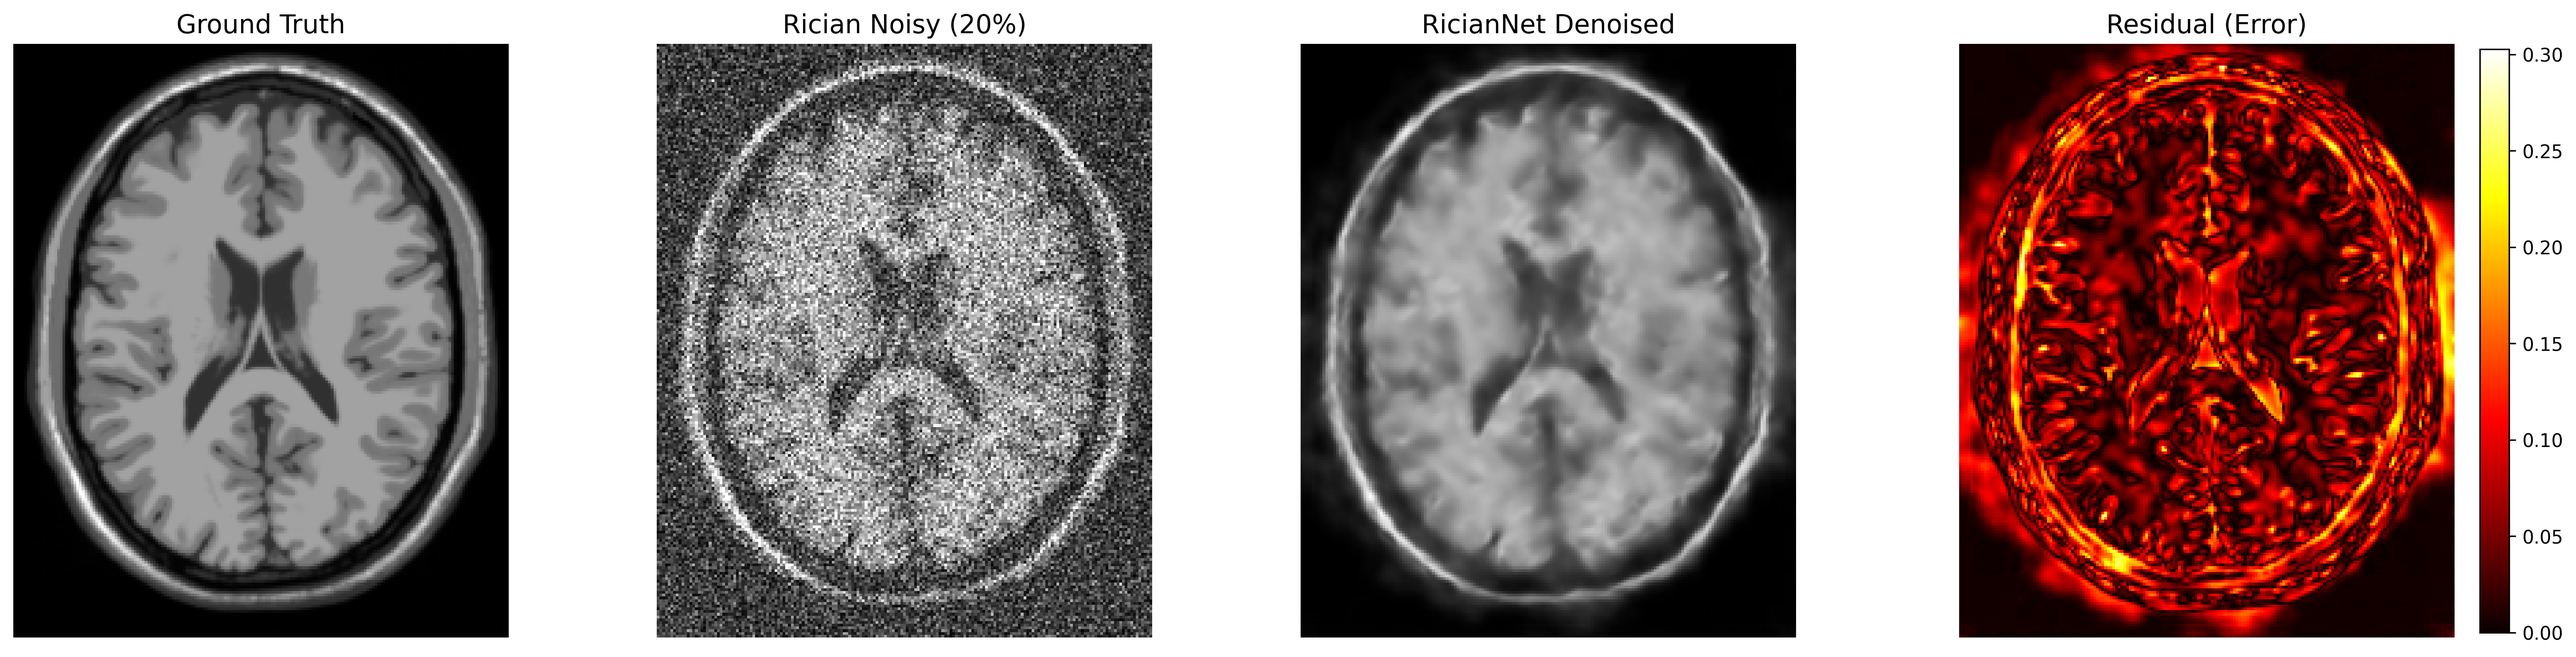
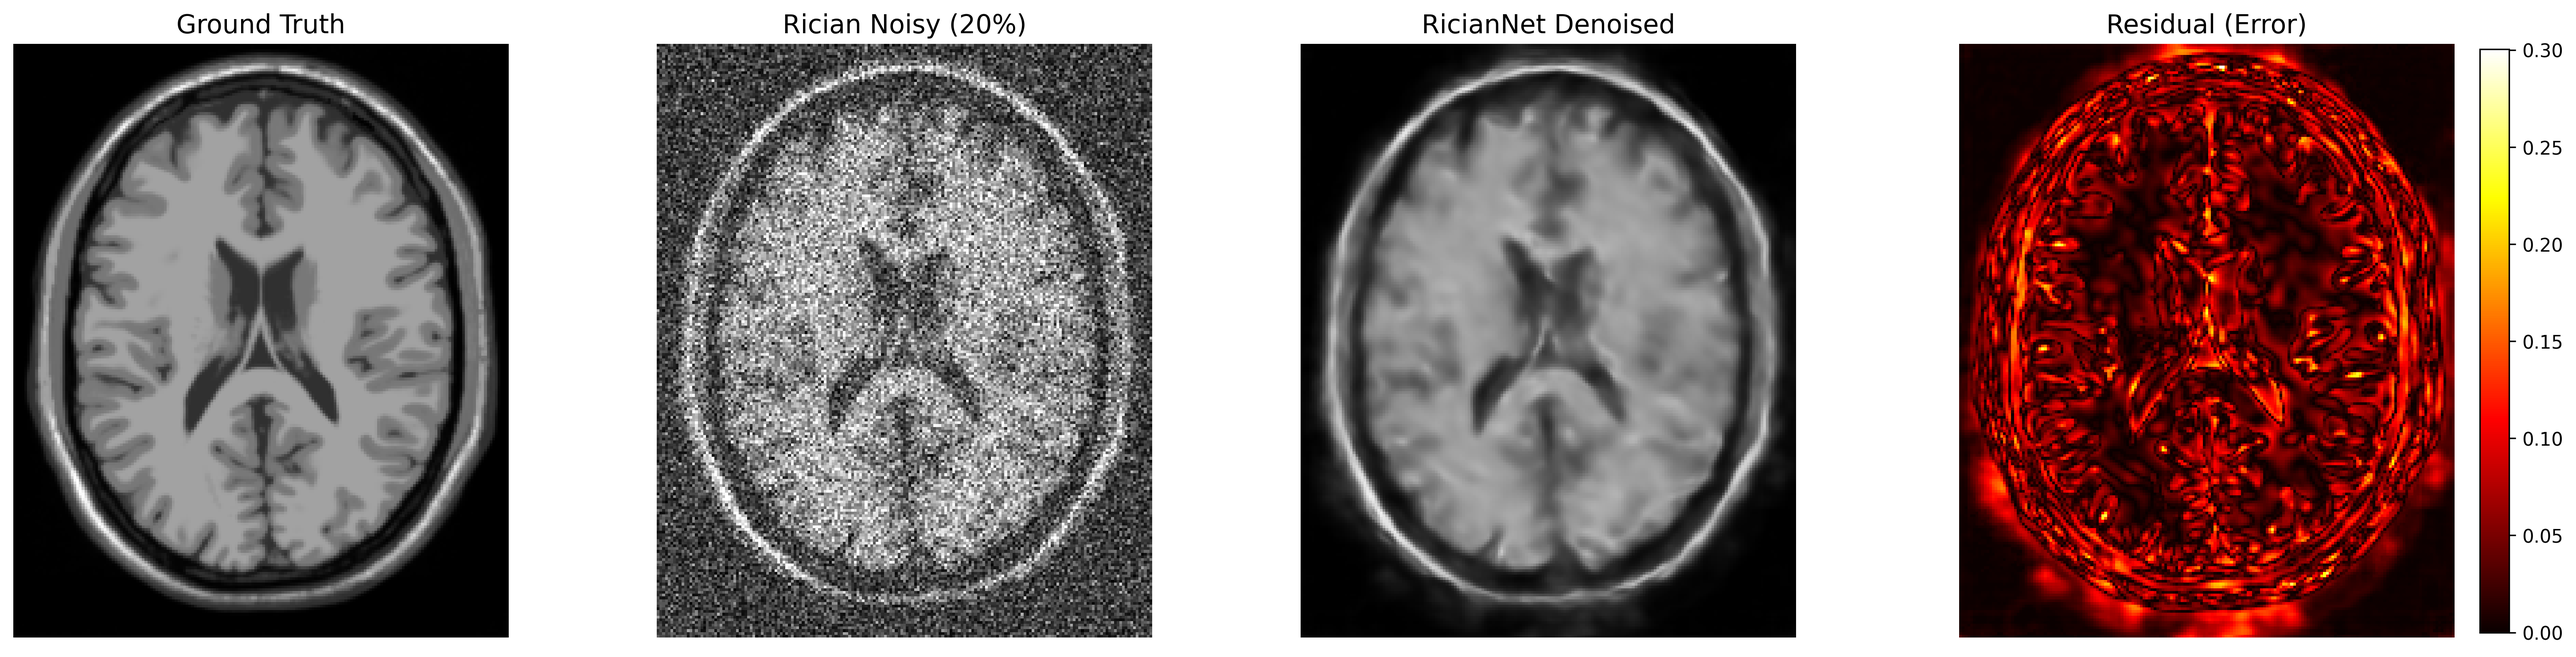
使用RF0数据集进行热启动微调训练

diff --git a/train.py b/train.py
@@ -3,7 +3,7 @@ import torch
 import torch.nn as nn
 import torch.optim as optim
 from tqdm import tqdm
-from torch.utils.tensorboard import SummaryWriter  # 引入 TensorBoard 写入器
+from torch.utils.tensorboard import SummaryWriter
 
 from models.RicianNet import RicianNet
 from utils.data_loader import get_dataloader, add_rician_noise_gpu
@@ -14,25 +14,33 @@ def main():
     
     os.makedirs("checkpoints", exist_ok=True)
     
-    # 初始化 TensorBoard 写入器，日志将保存在 runs/rician_experiment 目录下
-    writer = SummaryWriter(log_dir="runs/rician_experiment")
+    # --- 修改 1: 建议更改日志目录名，以便在 TensorBoard 中对比微调前后的曲线 ---
+    writer = SummaryWriter(log_dir="runs/rician_finetune_rf0")
     
+    # --- 修改 2: 确保你的 data/train/ 目录下现在放的是 RF0 的数据 ---
     train_loader = get_dataloader("data/train/", batch_size=64, shuffle=True)
     model = RicianNet().to(device)
+
+    # --- 修改 3: 加载 RF20 的权重进行“热启动” ---
+    weights_path = "checkpoints/rician_net_best.pth"
+    if os.path.exists(weights_path):
+        # 使用 weights_only=True 是 PyTorch 的安全最佳实践
+        model.load_state_dict(torch.load(weights_path, map_location=device, weights_only=True))
+        print(f"✅ 成功加载预训练权重: {weights_path}，开始针对 RF0 进行微调补救...")
+    else:
+        print("⚠ 未找到预训练权重，将从零开始训练（请检查路径）")
     
     criterion = nn.MSELoss()
-    # SGD 优化器的学习率和动量参数设置
-    # optimizer = optim.SGD(model.parameters(), lr=0.1, momentum=0.9, weight_decay=1e-4)
 
-    # Adam 优化器的学习率和权重衰减参数设置
-    optimizer = optim.Adam(model.parameters(), lr=0.001, weight_decay=1e-4)
-
-    # scheduler = optim.lr_scheduler.StepLR(optimizer, step_size=116840, gamma=0.1)
+    # --- 修改 4: 降低学习率 (Fine-tuning 常用 1e-5 或 5e-5) ---
+    # 较低的学习率能防止 RF0 的新分布把模型原本学到的去噪能力“冲跨”
+    optimizer = optim.Adam(model.parameters(), lr=0.00005, weight_decay=1e-4)
     
-    EPOCHS = 50
+    # --- 修改 5: 微调不需要 50 轮，通常 10-20 轮即可见效 ---
+    EPOCHS = 20 
     best_loss = float('inf')
     
-    print("开始训练...")
+    print("开始微调训练...")
     for epoch in range(1, EPOCHS + 1):
         model.train()
         epoch_loss = 0.0
@@ -60,16 +68,15 @@ def main():
         avg_loss = epoch_loss / len(train_loader)
         print(f"--> Epoch {epoch} 总结 | 平均 Loss (MSE): {avg_loss:.6f}")
         
-        # 将本轮的平均 Loss 和当前学习率记录到 TensorBoard 中
         writer.add_scalar('Training/Average_Loss', avg_loss, epoch)
         writer.add_scalar('Training/Learning_Rate', current_lr, epoch)
         
         if avg_loss < best_loss:
             best_loss = avg_loss
-            torch.save(model.state_dict(), "checkpoints/rician_net_best.pth")
-            print("  [*] 捕捉到更小的 Loss，已保存最新模型！")
+            # 建议微调阶段保存为一个新名字，防止覆盖掉之前的“保底”模型
+            torch.save(model.state_dict(), "checkpoints/rician_net_rf0_fine_tuned.pth")
+            print("  [*] 捕捉到更小的 Loss，已保存 RF0 微调模型！")
             
-    # 训练结束后关闭写入器
     writer.close()
 
 if __name__ == "__main__":

diff --git a/utils/mri2png.py b/utils/mri2png.py
@@ -50,7 +50,9 @@ def convert_mri_to_png(filepath, output_dir, file_prefix="mri"):
         
         # 避坑点 3：BrainWeb 的 MINC 数据切出来默认可能是顺时针转了 90 度的
         # 加上这行旋转代码，出来的 PNG 图片才是正向的大脑形状
-        slice_uint8 = np.rot90(slice_uint8)
+        # slice_uint8 = np.rot180(slice_uint8)
+        # 如果是上下颠倒（Vertical Flip），使用 flipud
+        slice_uint8 = np.flipud(slice_uint8)
         
         # 3. 保存为 PNG 图像
         save_path = os.path.join(output_dir, f"{file_prefix}_slice_{saved_count:03d}.png")

diff --git a/evaluate.py b/evaluate.py
@@ -48,7 +48,7 @@ def visualize_results(clean, noisy, denoised, residual, level):
 
 def main():
     device = torch.device("cuda" if torch.cuda.is_available() else "cpu")
-    model_path = "checkpoints/rician_net_best.pth"
+    model_path = "checkpoints\\rician_net_rf0_fine_tuned.pth"
     test_img_path = "data/test/brain_test_01.png"
     
     if not os.path.exists(model_path):

diff --git a/Record.md b/Record.md
@@ -24,6 +24,17 @@
   2. PyTorch 的默认卷积权重初始化方式，配合论文原设的极其激进的学习率 (`lr=0.1`) 和 SGD 优化器，导致第一轮反向传播时梯度过大，大量 ReLU 神经元陷入“死亡状态”（即输入持续为负，梯度永远为 0）。
 * **解决方案**：放弃原论文的 SGD 优化器，改用自适应动量的 **Adam 优化器**，并将初始学习率下调至 `0.001` 或 `1e-4`。
 
+## 4. 训练数据集问题
+### 4.1 数据集亮度偏差
+* **问题描述**：应该使用RF0数据集进行训练，原数据集错误地使用了RF20数据。
+* **解决方案**：热启动微调 (Warm-start Fine-tuning)，在已经训练过的模型基础上，降低学习率再进行多轮训练来微调偏置。
+* **解决结果**：
+    实验组 A：RF20 数据集训练，最终 Loss 0.0037，去噪图受亮度偏置干扰。
+    实验组 B：RF0 数据集微调，最终 Loss 0.0028，各项指标大幅提升，视觉效果更佳。
+### 4.2 数据集样本量小
+* **问题描述**: 若只对MRI图像沿Z轴切片，图像样本量比较小，模型泛化能力差
+* **解决方案**：
+
 
 
 ---
